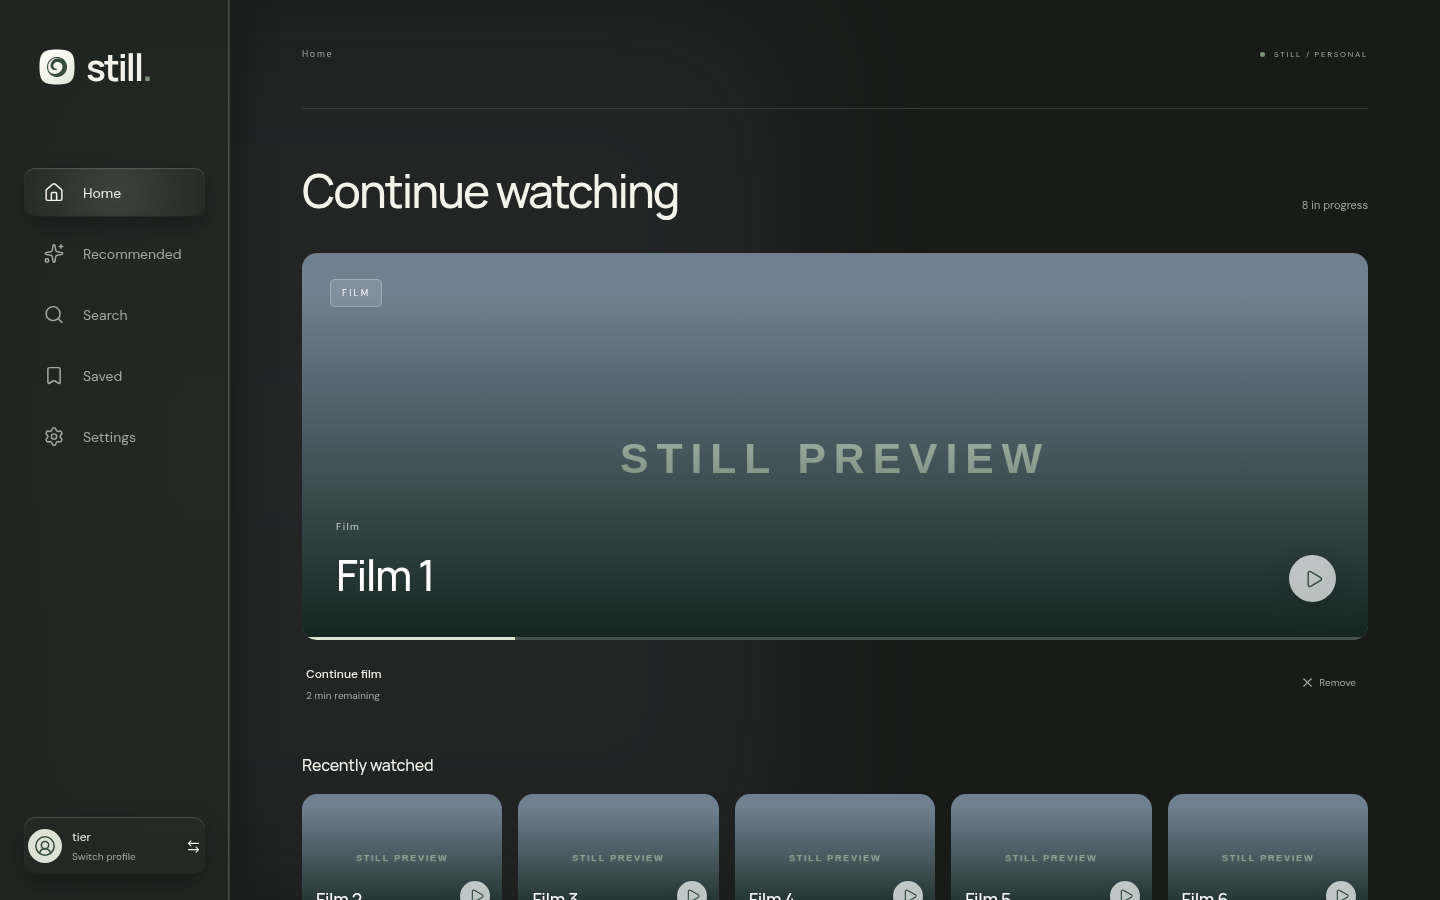
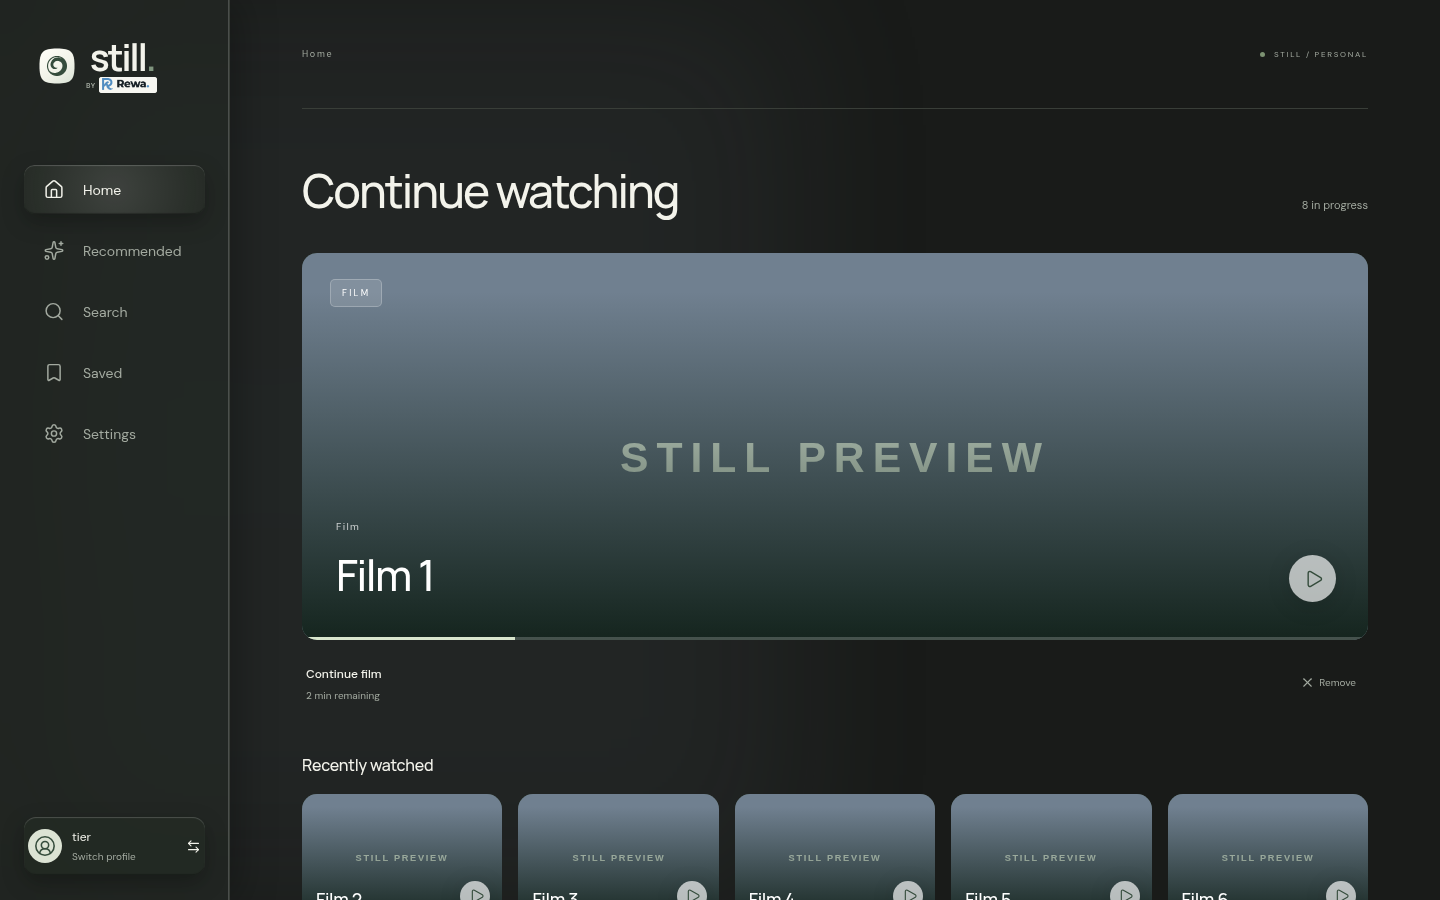
feat(brand): add Rewa maker signature

diff --git a/src/main.tsx b/src/main.tsx
@@ -1,5 +1,6 @@
 import "./polyfills";
 import appIcon from "./assets/app-icon.svg";
+import rewaWordmark from "./assets/rewa-wordmark.png";
 import React, { useEffect, useMemo, useRef, useState } from "react";
 import { createRoot } from "react-dom/client";
 import type {
@@ -1445,9 +1446,19 @@ function App() {
 }
 function Brand() {
   return (
-    <div className="brand">
-      <img className="brand-icon" src={appIcon} alt="" width="38" height="38" />{" "}
-      still<span className="brand-dot">.</span>
+    <div className="brand" role="img" aria-label="Still. Built by Rewa.">
+      <img className="brand-icon" src={appIcon} alt="" width="38" height="38" />
+      <span className="brand-lockup">
+        <span className="brand-name">
+          still<span className="brand-dot">.</span>
+        </span>
+        <span className="brand-maker">
+          <span>by</span>
+          <span className="rewa-mark">
+            <img src={rewaWordmark} alt="" />
+          </span>
+        </span>
+      </span>
     </div>
   );
 }

diff --git a/src/style.css b/src/style.css
@@ -197,6 +197,42 @@ strong {
   font-weight: 650;
   white-space: nowrap;
 }
+.brand-lockup {
+  display: flex;
+  flex-direction: column;
+  align-items: flex-end;
+  line-height: 0.82;
+}
+.brand-name {
+  display: block;
+}
+.brand-maker {
+  display: flex;
+  align-items: center;
+  gap: 3px;
+  margin: 5px -2px -4px 0;
+  color: var(--muted);
+  font-family: "DM Sans", sans-serif;
+  font-size: 7px;
+  font-weight: 600;
+  letter-spacing: 0.08em;
+  line-height: 1;
+  text-transform: uppercase;
+}
+.rewa-mark {
+  display: block;
+  width: 58px;
+  height: 16px;
+  overflow: hidden;
+  border-radius: 3px;
+  background: #f7f7f2;
+}
+.rewa-mark img {
+  display: block;
+  width: 64px;
+  height: auto;
+  transform: translate(-3px, -5px);
+}
 .brand-icon {
   flex-shrink: 0;
   margin-right: 10px;

diff --git a/e2e/app.spec.ts b/e2e/app.spec.ts
@@ -39,6 +39,9 @@ test("preview navigates, saves titles, changes preferences and themes", async ({
   page,
 }) => {
   await page.goto("http://localhost:5173");
+  await expect(
+    page.getByRole("img", { name: "Still. Built by Rewa." }),
+  ).toBeVisible();
   await page.getByRole("button", { name: "Preview app" }).click();
   await expect(
     page.getByRole("heading", { name: "Continue watching" }),

diff --git a/src/vendor.d.ts b/src/vendor.d.ts
@@ -6,3 +6,7 @@ declare module "*.svg" {
   const src: string;
   export default src;
 }
+declare module "*.png" {
+  const src: string;
+  export default src;
+}

diff --git a/README.md b/README.md
@@ -3,6 +3,9 @@
 <p align="center">
   <img src="src/assets/app-icon.svg" alt="Still app icon" width="120">
 </p>
+<p align="center">
+  <sub>Built by <img src="src/assets/rewa-wordmark.png" alt="Rewa." width="64"></sub>
+</p>
 
 Still is a light-first, landscape Stremio client for Linux, Android TV, Google TV, Android tablets and LG webOS. It keeps Continue Watching prominent, removes most of the original interface clutter, and adds optional household profiles.
 
